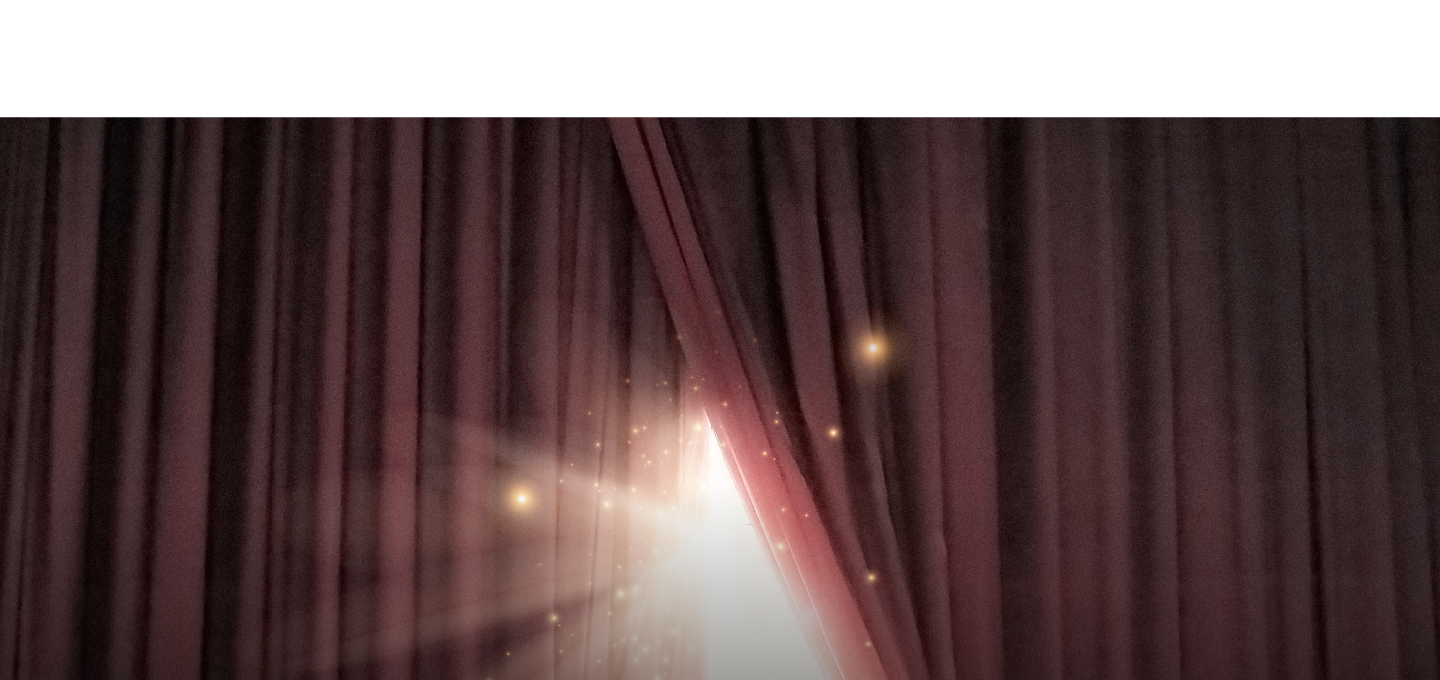
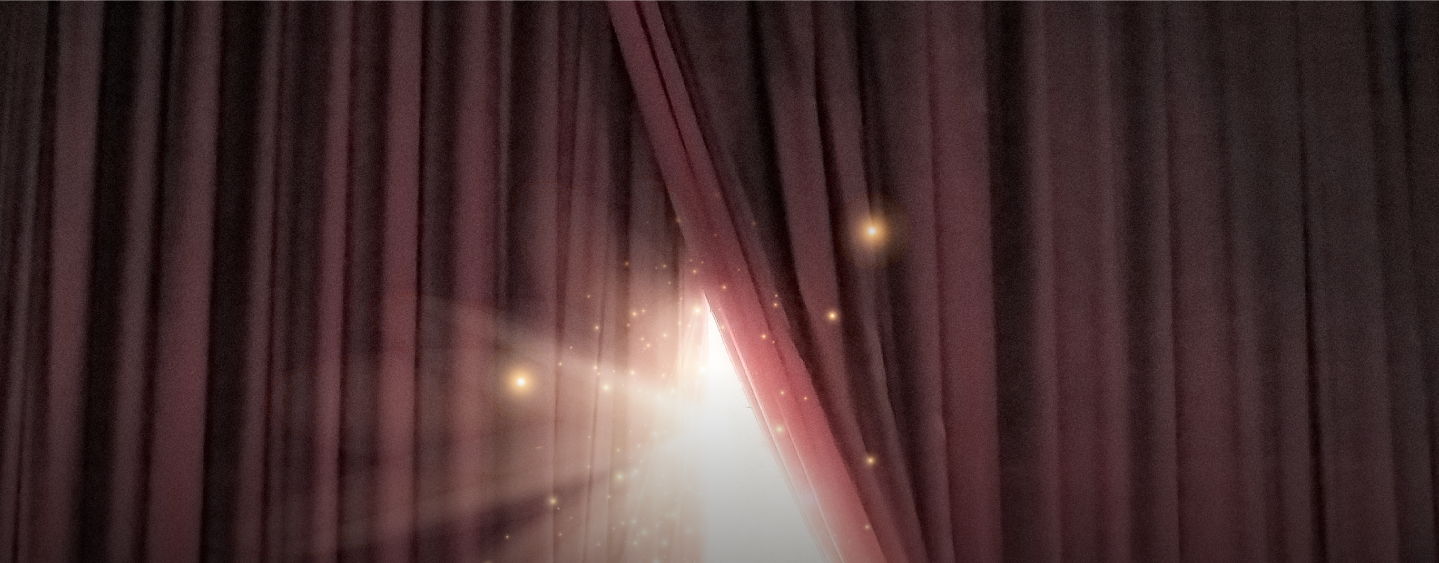
feat: add .promo section

diff --git a/dist/css/style.min.css b/dist/css/style.min.css
@@ -4,4 +4,4 @@
  * Copyright 2011-2019 Twitter, Inc.
  * Licensed under MIT (https://github.com/twbs/bootstrap/blob/master/LICENSE)
  * Forked from Normalize.css, licensed MIT (https://github.com/necolas/normalize.css/blob/master/LICENSE.md)
- */@import url(https://fonts.googleapis.com/css2?family=Noto+Sans:wght@400;700&display=swap);*,::after,::before{box-sizing:border-box}html{font-family:sans-serif;line-height:1.15;-webkit-text-size-adjust:100%;-webkit-tap-highlight-color:transparent}article,aside,figcaption,figure,footer,header,hgroup,main,nav,section{display:block}body{margin:0;font-family:-apple-system,BlinkMacSystemFont,"Segoe UI",Roboto,"Helvetica Neue",Arial,"Noto Sans",sans-serif,"Apple Color Emoji","Segoe UI Emoji","Segoe UI Symbol","Noto Color Emoji";font-size:1rem;font-weight:400;line-height:1.5;color:#212529;text-align:left;background-color:#fff}[tabindex="-1"]:focus{outline:0!important}hr{box-sizing:content-box;height:0;overflow:visible}h1,h2,h3,h4,h5,h6{margin-top:0;margin-bottom:.5rem}p{margin-top:0;margin-bottom:1rem}abbr[data-original-title],abbr[title]{text-decoration:underline;text-decoration:underline dotted;cursor:help;border-bottom:0;text-decoration-skip-ink:none}address{margin-bottom:1rem;font-style:normal;line-height:inherit}dl,ol,ul{margin-top:0;margin-bottom:1rem}ol ol,ol ul,ul ol,ul ul{margin-bottom:0}dt{font-weight:700}dd{margin-bottom:.5rem;margin-left:0}blockquote{margin:0 0 1rem}b,strong{font-weight:bolder}small{font-size:80%}sub,sup{position:relative;font-size:75%;line-height:0;vertical-align:baseline}sub{bottom:-.25em}sup{top:-.5em}a{color:#007bff;text-decoration:none;background-color:transparent}a:hover{color:#0056b3;text-decoration:underline}a:not([href]):not([tabindex]){color:inherit;text-decoration:none}a:not([href]):not([tabindex]):focus,a:not([href]):not([tabindex]):hover{color:inherit;text-decoration:none}a:not([href]):not([tabindex]):focus{outline:0}code,kbd,pre,samp{font-family:SFMono-Regular,Menlo,Monaco,Consolas,"Liberation Mono","Courier New",monospace;font-size:1em}pre{margin-top:0;margin-bottom:1rem;overflow:auto}figure{margin:0 0 1rem}img{vertical-align:middle;border-style:none}svg{overflow:hidden;vertical-align:middle}table{border-collapse:collapse}caption{padding-top:.75rem;padding-bottom:.75rem;color:#6c757d;text-align:left;caption-side:bottom}th{text-align:inherit}label{display:inline-block;margin-bottom:.5rem}button{border-radius:0}button:focus{outline:1px dotted;outline:5px auto -webkit-focus-ring-color}button,input,optgroup,select,textarea{margin:0;font-family:inherit;font-size:inherit;line-height:inherit}button,input{overflow:visible}button,select{text-transform:none}select{word-wrap:normal}[type=button],[type=reset],[type=submit],button{-webkit-appearance:button}[type=button]:not(:disabled),[type=reset]:not(:disabled),[type=submit]:not(:disabled),button:not(:disabled){cursor:pointer}[type=button]::-moz-focus-inner,[type=reset]::-moz-focus-inner,[type=submit]::-moz-focus-inner,button::-moz-focus-inner{padding:0;border-style:none}input[type=checkbox],input[type=radio]{box-sizing:border-box;padding:0}input[type=date],input[type=datetime-local],input[type=month],input[type=time]{-webkit-appearance:listbox}textarea{overflow:auto;resize:vertical}fieldset{min-width:0;padding:0;margin:0;border:0}legend{display:block;width:100%;max-width:100%;padding:0;margin-bottom:.5rem;font-size:1.5rem;line-height:inherit;color:inherit;white-space:normal}progress{vertical-align:baseline}[type=number]::-webkit-inner-spin-button,[type=number]::-webkit-outer-spin-button{height:auto}[type=search]{outline-offset:-2px;-webkit-appearance:none}[type=search]::-webkit-search-decoration{-webkit-appearance:none}::-webkit-file-upload-button{font:inherit;-webkit-appearance:button}output{display:inline-block}summary{display:list-item;cursor:pointer}template{display:none}[hidden]{display:none!important}.header__wrapper{min-height:90px}*,:after,:before{box-sizing:inherit}*{font-family:"Noto Sans",sans-serif;margin:0;padding:0}ol,ul{margin-bottom:0;padding-bottom:0}h1,h2,h3,h4,h5,h6,label,p{margin-bottom:0;padding-bottom:0}button,input,textarea{outline:0}.container{max-width:1440px;width:100%;margin:0 auto;position:relative}button:active,button:focus{outline:0}button::-moz-focus-inner{border:0}
+ */@import url(https://fonts.googleapis.com/css2?family=Noto+Sans:wght@400;700&display=swap);*,::after,::before{box-sizing:border-box}html{font-family:sans-serif;line-height:1.15;-webkit-text-size-adjust:100%;-webkit-tap-highlight-color:transparent}article,aside,figcaption,figure,footer,header,hgroup,main,nav,section{display:block}body{margin:0;font-family:-apple-system,BlinkMacSystemFont,"Segoe UI",Roboto,"Helvetica Neue",Arial,"Noto Sans",sans-serif,"Apple Color Emoji","Segoe UI Emoji","Segoe UI Symbol","Noto Color Emoji";font-size:1rem;font-weight:400;line-height:1.5;color:#212529;text-align:left;background-color:#fff}[tabindex="-1"]:focus{outline:0!important}hr{box-sizing:content-box;height:0;overflow:visible}h1,h2,h3,h4,h5,h6{margin-top:0;margin-bottom:.5rem}p{margin-top:0;margin-bottom:1rem}abbr[data-original-title],abbr[title]{text-decoration:underline;text-decoration:underline dotted;cursor:help;border-bottom:0;text-decoration-skip-ink:none}address{margin-bottom:1rem;font-style:normal;line-height:inherit}dl,ol,ul{margin-top:0;margin-bottom:1rem}ol ol,ol ul,ul ol,ul ul{margin-bottom:0}dt{font-weight:700}dd{margin-bottom:.5rem;margin-left:0}blockquote{margin:0 0 1rem}b,strong{font-weight:bolder}small{font-size:80%}sub,sup{position:relative;font-size:75%;line-height:0;vertical-align:baseline}sub{bottom:-.25em}sup{top:-.5em}a{color:#007bff;text-decoration:none;background-color:transparent}a:hover{color:#0056b3;text-decoration:underline}a:not([href]):not([tabindex]){color:inherit;text-decoration:none}a:not([href]):not([tabindex]):focus,a:not([href]):not([tabindex]):hover{color:inherit;text-decoration:none}a:not([href]):not([tabindex]):focus{outline:0}code,kbd,pre,samp{font-family:SFMono-Regular,Menlo,Monaco,Consolas,"Liberation Mono","Courier New",monospace;font-size:1em}pre{margin-top:0;margin-bottom:1rem;overflow:auto}figure{margin:0 0 1rem}img{vertical-align:middle;border-style:none}svg{overflow:hidden;vertical-align:middle}table{border-collapse:collapse}caption{padding-top:.75rem;padding-bottom:.75rem;color:#6c757d;text-align:left;caption-side:bottom}th{text-align:inherit}label{display:inline-block;margin-bottom:.5rem}button{border-radius:0}button:focus{outline:1px dotted;outline:5px auto -webkit-focus-ring-color}button,input,optgroup,select,textarea{margin:0;font-family:inherit;font-size:inherit;line-height:inherit}button,input{overflow:visible}button,select{text-transform:none}select{word-wrap:normal}[type=button],[type=reset],[type=submit],button{-webkit-appearance:button}[type=button]:not(:disabled),[type=reset]:not(:disabled),[type=submit]:not(:disabled),button:not(:disabled){cursor:pointer}[type=button]::-moz-focus-inner,[type=reset]::-moz-focus-inner,[type=submit]::-moz-focus-inner,button::-moz-focus-inner{padding:0;border-style:none}input[type=checkbox],input[type=radio]{box-sizing:border-box;padding:0}input[type=date],input[type=datetime-local],input[type=month],input[type=time]{-webkit-appearance:listbox}textarea{overflow:auto;resize:vertical}fieldset{min-width:0;padding:0;margin:0;border:0}legend{display:block;width:100%;max-width:100%;padding:0;margin-bottom:.5rem;font-size:1.5rem;line-height:inherit;color:inherit;white-space:normal}progress{vertical-align:baseline}[type=number]::-webkit-inner-spin-button,[type=number]::-webkit-outer-spin-button{height:auto}[type=search]{outline-offset:-2px;-webkit-appearance:none}[type=search]::-webkit-search-decoration{-webkit-appearance:none}::-webkit-file-upload-button{font:inherit;-webkit-appearance:button}output{display:inline-block}summary{display:list-item;cursor:pointer}template{display:none}[hidden]{display:none!important}.header__wrapper{min-height:90px}.promo__wrapper{position:relative;display:flex;flex-direction:column;align-items:center;padding:45px 0 25px 0;background-image:url(../../../../assets/img/promo/promo-bg.png);background-size:cover;background-repeat:no-repeat}.promo__title{margin-top:16px;font-style:normal;font-weight:700;font-size:60px;line-height:80px;text-align:center;text-transform:uppercase;color:#fff}.promo__subtitle{margin-top:7px;font-style:normal;font-weight:400;font-size:30px;line-height:41px;text-align:center;color:#fff}.promo__more{margin-top:224px;font-weight:400;font-size:30px;line-height:41px;text-align:center;color:#fff}.promo__arrow{margin-top:25px}*,:after,:before{box-sizing:inherit}*{font-family:"Noto Sans",sans-serif;margin:0;padding:0}ol,ul{margin-bottom:0;padding-bottom:0}h1,h2,h3,h4,h5,h6,label,p{margin-bottom:0;padding-bottom:0}button,input,textarea{outline:0}.container{max-width:1440px;width:100%;margin:0 auto;position:relative}button:active,button:focus{outline:0}button::-moz-focus-inner{border:0}

diff --git a/dist/index.html b/dist/index.html
@@ -1,1 +1,1 @@
-<!DOCTYPE html><html lang="ru"><head><meta charset="UTF-8"><meta name="viewport" content="width=device-width,initial-scale=1"><meta http-equiv="X-UA-Compatible" content="ie=edge"><title>Portfolio - Sergey Goncharuk</title><meta name="title" content="Portfolio - Sergey Goncharuk"><meta name="description" content="Portfolio - Sergey Goncharuk description"><link rel="shortcut icon" href="assets/favicon/favicon.ico" type="image/x-icon"><!-- Open Graph / Facebook --><meta property="og:type" content="website"><meta property="og:url" content="https://bloodmooner.github.io/rsschool-cv/index.html"><meta property="og:title" content="Portfolio - Sergey Goncharuk"><meta property="og:description" content="Portfolio - Sergey Goncharuk description"><meta property="og:image" content="https://www.discoverwalks.com/blog/wp-content/uploads/2016/07/louvre-big.jpg"><!-- Twitter --><meta property="twitter:card" content="summary_large_image"><meta property="twitter:url" content="https://bloodmooner.github.io/rsschool-cv/index.html"><meta property="twitter:title" content="Portfolio - Sergey Goncharuk"><meta property="twitter:description" content="Portfolio - Sergey Goncharuk description"><meta property="twitter:image" content="https://www.discoverwalks.com/blog/wp-content/uploads/2016/07/louvre-big.jpg"><link rel="stylesheet" href="css/style.min.css"></head><body><header class="header"><div class="container"><div class="header__wrapper"></div></div></header><script src="https://cdnjs.cloudflare.com/ajax/libs/jquery/3.6.0/jquery.min.js"></script><script src="js/script.js"></script></body></html>
+<!DOCTYPE html><html lang="ru"><head><meta charset="UTF-8"><meta name="viewport" content="width=device-width,initial-scale=1"><meta http-equiv="X-UA-Compatible" content="ie=edge"><title>Portfolio - Sergey Goncharuk</title><meta name="title" content="Portfolio - Sergey Goncharuk"><meta name="description" content="Portfolio - Sergey Goncharuk description"><link rel="shortcut icon" href="assets/favicon/favicon.ico" type="image/x-icon"><!-- Open Graph / Facebook --><meta property="og:type" content="website"><meta property="og:url" content="https://bloodmooner.github.io/rsschool-cv/index.html"><meta property="og:title" content="Portfolio - Sergey Goncharuk"><meta property="og:description" content="Portfolio - Sergey Goncharuk description"><meta property="og:image" content="https://www.discoverwalks.com/blog/wp-content/uploads/2016/07/louvre-big.jpg"><!-- Twitter --><meta property="twitter:card" content="summary_large_image"><meta property="twitter:url" content="https://bloodmooner.github.io/rsschool-cv/index.html"><meta property="twitter:title" content="Portfolio - Sergey Goncharuk"><meta property="twitter:description" content="Portfolio - Sergey Goncharuk description"><meta property="twitter:image" content="https://www.discoverwalks.com/blog/wp-content/uploads/2016/07/louvre-big.jpg"><link rel="stylesheet" href="css/style.min.css"></head><body><header class="header"><div class="container"><div class="header__wrapper"></div></div></header><section class="promo"><div class="container"><div class="promo__wrapper"><img class="promo__logo" src="assets/svg/logo.svg" alt=""><h1 class="promo__title">Баллы на финишной прямой</h1><h2 class="promo__subtitle">Тратьте ваши баллы IQOS CLUB на высокие цели</h2><span class="promo__more">Узнать больше </span><svg class="promo__arrow" width="39" height="22" viewBox="0 0 39 22" fill="none" xmlns="http://www.w3.org/2000/svg"><path d="M2 1.44531L19.6777 19.123L37.3553 1.44531" stroke="white" stroke-width="3"/></svg></div></div></section><script src="https://cdnjs.cloudflare.com/ajax/libs/jquery/3.6.0/jquery.min.js"></script><script src="js/script.js"></script></body></html>

diff --git a/src/index.html b/src/index.html
@@ -37,6 +37,26 @@
     </div>
   </header>
 
+  <section class="promo">
+    <div class="container">
+      <div class="promo__wrapper">
+        <img class="promo__logo" src="assets/svg/logo.svg" alt="">
+        <h1 class="promo__title">
+          Баллы на финишной прямой
+        </h1>
+        <h2 class="promo__subtitle">
+          Тратьте ваши баллы IQOS CLUB на высокие цели
+        </h2>
+        <span class="promo__more">
+          Узнать больше
+        </span>
+        <svg class='promo__arrow' width="39" height="22" viewBox="0 0 39 22" fill="none" xmlns="http://www.w3.org/2000/svg">
+          <path d="M2 1.44531L19.6777 19.123L37.3553 1.44531" stroke="white" stroke-width="3"/>
+        </svg>
+      </div>
+    </div>
+  </section>
+
 
 
   <script src="https://cdnjs.cloudflare.com/ajax/libs/jquery/3.6.0/jquery.min.js"></script>

diff --git a/src/sass/style.scss b/src/sass/style.scss
@@ -8,6 +8,14 @@
 @import 'blocks/header/header';
 @import 'blocks/header/__wrapper/header__wrapper';
 
+@import 'blocks/promo/promo';
+@import 'blocks/promo/__wrapper/promo__wrapper';
+@import 'blocks/promo/__title/promo__title';
+@import 'blocks/promo/__subtitle/promo__subtitle';
+@import 'blocks/promo/__logo/promo__logo';
+@import 'blocks/promo/__more/promo__more';
+@import 'blocks/promo/__arrow/promo__arrow';
+
 
 *, *:before, *:after {
   box-sizing: inherit;

diff --git a/src/sass/blocks/promo/__wrapper/_promo__wrapper.scss b/src/sass/blocks/promo/__wrapper/_promo__wrapper.scss
@@ -1,0 +1,14 @@
+.promo {
+
+  &__wrapper {
+    position: relative;
+    display: flex;
+    flex-direction: column;
+    align-items: center;
+    padding: 45px 0 25px 0;
+    background-image: url('../../../../assets/img/promo/promo-bg.png');
+    background-size: cover;
+    background-repeat: no-repeat;
+  }
+
+}

diff --git a/src/sass/blocks/promo/__title/_promo__title.scss b/src/sass/blocks/promo/__title/_promo__title.scss
@@ -1,0 +1,13 @@
+.promo {
+
+  &__title {
+    margin-top: 16px;
+    font-style: normal;
+    font-weight: bold;
+    font-size: 60px;
+    line-height: 80px;
+    text-align: center;
+    text-transform: uppercase;
+    color: #FFFFFF;
+  }
+}

diff --git a/src/sass/blocks/promo/__subtitle/_promo__subtitle.scss b/src/sass/blocks/promo/__subtitle/_promo__subtitle.scss
@@ -1,0 +1,13 @@
+.promo {
+
+  &__subtitle {
+    margin-top: 7px;
+    font-style: normal;
+    font-weight: normal;
+    font-size: 30px;
+    line-height: 41px;
+    text-align: center;
+    color: #FFFFFF;
+  }
+
+}

diff --git a/src/sass/blocks/promo/__more/_promo__more.scss b/src/sass/blocks/promo/__more/_promo__more.scss
@@ -1,0 +1,11 @@
+.promo {
+
+  &__more {
+    margin-top: 224px;
+    font-weight: normal;
+    font-size: 30px;
+    line-height: 41px;
+    text-align: center;
+    color: #FFFFFF;
+  }
+}

diff --git a/src/sass/blocks/promo/__arrow/_promo__arrow.scss b/src/sass/blocks/promo/__arrow/_promo__arrow.scss
@@ -1,0 +1,6 @@
+.promo {
+
+  &__arrow {
+    margin-top: 25px;
+  }
+}

diff --git a/src/sass/blocks/promo/__logo/_promo__logo.scss b/src/sass/blocks/promo/__logo/_promo__logo.scss
@@ -1,0 +1,9 @@
+.promo {
+
+
+  &__logo {
+
+  }
+
+}
+
